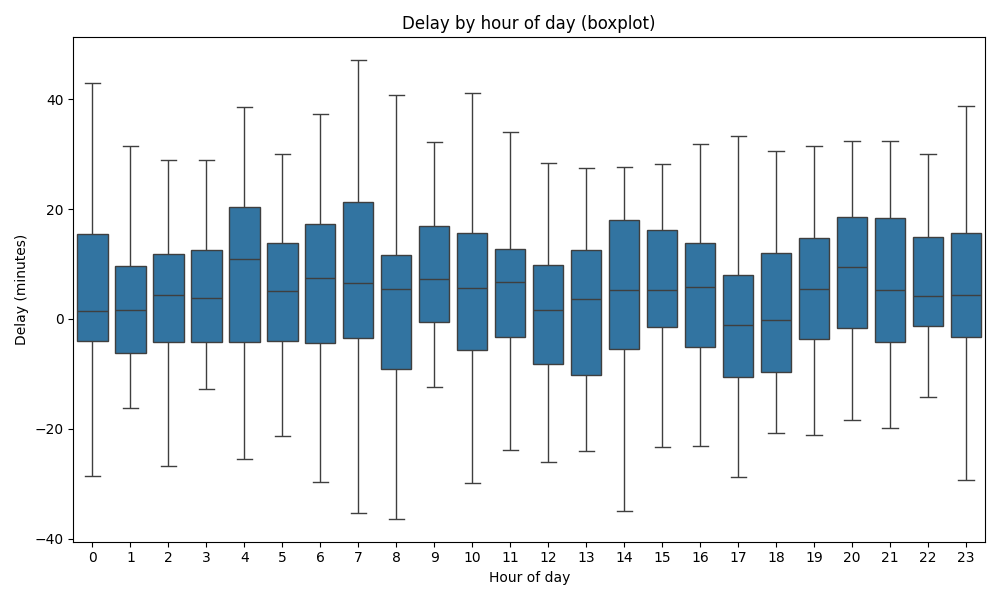
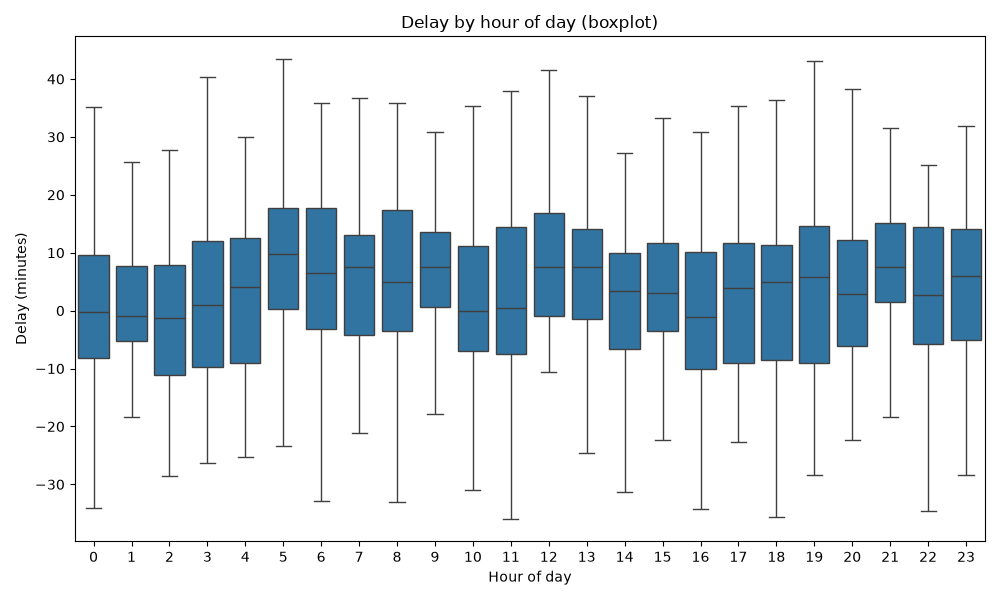
chore: update docs and generated figures

diff --git a/docs/ml_hpo_results.md b/docs/ml_hpo_results.md
@@ -21,15 +21,15 @@ Test set performance:
 ```
 {
   "test": {
-    "rmse": 1.1067159388469126,
-    "mae": 0.42157722497528916,
-    "r2": 0.9945801255604042
+    "rmse": 1.0306273498845666,
+    "mae": 0.30483526927434224,
+    "r2": 0.994769592743941
   }
 }
 ```
 
 Top features (logged in MLflow) and feature count available in the run artifacts.
 
-Training duration: 0.9s
+Training duration: 1.2s
 
 Limitations: tuned on small dataset; final model trained on train+val and evaluated on test only. Do not use test to tune.
